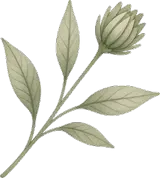
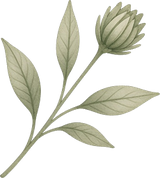
fix(site): defringe botanicals, cream CTAs, card button padding
Punch white mats from garden art PNGs, drop full-bleed frame backdrop,
force cream labels on forest buttons, and pad platform card footers.

diff --git a/apps/parable-bloom-site/app/page.tsx b/apps/parable-bloom-site/app/page.tsx
@@ -85,14 +85,22 @@ export default function HomePage() {
     <div className="flex flex-col gap-16 pb-12 sm:gap-20">
       {/* ── Hero: brand + headline + CTA + dominant product image ── */}
       <section className="relative left-1/2 w-screen max-w-[100vw] -translate-x-1/2 overflow-hidden">
-        <div
+        {/* Soft corner sprigs only — punched PNG alpha, no full-bleed frame matte */}
+        <Image
+          src="/art/leaf_sprig.png"
+          alt=""
+          width={120}
+          height={134}
           aria-hidden="true"
-          className="pointer-events-none absolute inset-0 opacity-[0.55]"
-          style={{
-            backgroundImage: "url('/art/frame_light.webp')",
-            backgroundSize: 'cover',
-            backgroundPosition: 'center',
-          }}
+          className="pointer-events-none absolute top-6 left-2 opacity-80 sm:top-10 sm:left-6"
+        />
+        <Image
+          src="/art/leaf_sprig.png"
+          alt=""
+          width={120}
+          height={134}
+          aria-hidden="true"
+          className="pointer-events-none absolute right-2 bottom-8 scale-x-[-1] opacity-80 sm:right-8 sm:bottom-12"
         />
         <div className="relative mx-auto grid w-full max-w-6xl items-center gap-10 px-4 py-10 sm:px-6 sm:py-14 lg:grid-cols-[minmax(0,1.05fr)_minmax(0,0.95fr)] lg:gap-12 lg:py-16">
           <div className="animate-fade-in-up relative z-10 max-w-xl">
@@ -108,7 +116,7 @@ export default function HomePage() {
                 href="https://parable-bloom.web.app/"
                 target="_blank"
                 rel="noopener noreferrer"
-                className="cta-primary focus-visible:ring-brand/40 focus-visible:ring-2 focus-visible:outline-none"
+                className="cta-primary focus-visible:ring-brand/40 !text-[#fffbf3] hover:!text-[#fffbf3] focus-visible:ring-2 focus-visible:outline-none"
               >
                 Play on Web
               </Link>
@@ -150,7 +158,7 @@ export default function HomePage() {
           </div>
         </div>
         <div className="leaf-divider" aria-hidden="true">
-          <Image src="/art/leaf_pair.webp" alt="" width={72} height={24} className="opacity-80" />
+          <Image src="/art/leaf_pair.png" alt="" width={72} height={24} className="opacity-90" />
         </div>
         <div className="grid grid-cols-2 gap-4 md:grid-cols-4 md:gap-5">
           {gallery.map((shot, i) => (
@@ -218,7 +226,7 @@ export default function HomePage() {
       {/* ── Closing CTA ── */}
       <section className="animate-fade-in-up relative overflow-hidden rounded-[1.5rem] border border-brand/15 bg-surface px-6 py-10 text-center sm:px-10">
         <Image
-          src="/art/leaf_sprig.webp"
+          src="/art/leaf_sprig.png"
           alt=""
           width={80}
           height={48}
@@ -234,7 +242,7 @@ export default function HomePage() {
             href="https://parable-bloom.web.app/"
             target="_blank"
             rel="noopener noreferrer"
-            className="cta-primary"
+            className="cta-primary !text-[#fffbf3] hover:!text-[#fffbf3]"
           >
             Play on Web
           </Link>

diff --git a/apps/parable-bloom-site/components/design-system-card.tsx b/apps/parable-bloom-site/components/design-system-card.tsx
@@ -55,22 +55,29 @@ export default function DesignSystemCard({
         <CardDescription className="text-text-secondary text-sm leading-relaxed">{body}</CardDescription>
       </CardContent>
 
-      <CardFooter className="pt-0">
-        {href ? (
-          <Button
-            asChild
-            className="bg-brand hover:bg-brand/90 w-full rounded-[1.125rem] transition-all duration-300 hover:shadow-md"
-            onClick={() => trackCtaClick(title, 'platform_grid', badge)}
-          >
-            <Link href={href} target="_blank" rel="noopener noreferrer">
+      <CardFooter className="!border-brand/10 mt-auto !gap-0 !border-t !bg-transparent !p-0">
+        <div className="w-full px-6 pt-6 pb-6">
+          {href ? (
+            <Button
+              asChild
+              className="bg-brand hover:bg-brand/90 !text-[#fffbf3] hover:!text-[#fffbf3] h-11 w-full rounded-[1.125rem] transition-all duration-300 hover:shadow-md"
+              onClick={() => trackCtaClick(title, 'platform_grid', badge)}
+            >
+              <Link
+                href={href}
+                target="_blank"
+                rel="noopener noreferrer"
+                className="!text-[#fffbf3] hover:!text-[#fffbf3]"
+              >
+                {ctaLabel}
+              </Link>
+            </Button>
+          ) : (
+            <Button disabled className="bg-brand/35 !text-[#fffbf3] h-11 w-full rounded-[1.125rem] opacity-70">
               {ctaLabel}
-            </Link>
-          </Button>
-        ) : (
-          <Button disabled className="w-full rounded-[1.125rem] opacity-60">
-            {ctaLabel}
-          </Button>
-        )}
+            </Button>
+          )}
+        </div>
       </CardFooter>
     </Card>
   );

diff --git a/apps/parable-bloom-site/app/globals.css b/apps/parable-bloom-site/app/globals.css
@@ -274,7 +274,7 @@ a {
   gap: 0.5rem;
   border-radius: 1.125rem;
   background: var(--color-brand);
-  color: #fffbf3;
+  color: #fffbf3 !important;
   padding: 0.8rem 1.4rem;
   font-size: 0.95rem;
   font-weight: 600;
@@ -283,8 +283,22 @@ a {
 
 .cta-primary:hover {
   background: rgb(42 62 38);
+  color: #fffbf3 !important;
   transform: translateY(-2px);
   box-shadow: var(--shadow-grace-hover);
+}
+
+/* Forest primary buttons from the design system must keep cream label text */
+button.bg-brand,
+a.bg-brand,
+.bg-brand[data-slot='button'] {
+  color: #fffbf3;
+}
+
+button.bg-brand:hover,
+a.bg-brand:hover,
+.bg-brand[data-slot='button']:hover {
+  color: #fffbf3;
 }
 
 .cta-secondary {

diff --git a/apps/parable-bloom-site/components/site-shell.tsx b/apps/parable-bloom-site/components/site-shell.tsx
@@ -58,7 +58,7 @@ export default function SiteShell({ children }: SiteShellProps) {
             onClick={() => trackNavigationClick('/', 'header', 'Logo')}
             className="flex shrink-0 items-center gap-2.5 transition-opacity duration-300 hover:opacity-80"
           >
-            <Image src="/art/leaf_sprig.webp" alt="" width={28} height={18} className="opacity-90" aria-hidden="true" />
+            <Image src="/art/leaf_sprig.png" alt="" width={28} height={18} className="opacity-90" aria-hidden="true" />
             <Text variant="h3" as="strong" className="font-display text-brand whitespace-nowrap text-lg sm:text-xl">
               Parable Bloom
             </Text>

diff --git a/apps/parable-bloom-site/app/not-found.tsx b/apps/parable-bloom-site/app/not-found.tsx
@@ -4,7 +4,7 @@ import Link from 'next/link';
 export default function NotFound() {
   return (
     <div className="flex flex-col items-center gap-4 py-16 text-center">
-      <Image src="/art/leaf_sprig.webp" alt="" width={72} height={44} className="opacity-90" aria-hidden="true" />
+      <Image src="/art/leaf_sprig.png" alt="" width={72} height={44} className="opacity-90" aria-hidden="true" />
       <h2 className="font-display text-brand text-2xl font-semibold">Path not found</h2>
       <p className="text-text-secondary max-w-md text-sm">
         This garden path doesn&apos;t exist. Let&apos;s guide you back.

diff --git a/apps/parable-bloom-site/CHANGELOG.md b/apps/parable-bloom-site/CHANGELOG.md
@@ -4,6 +4,10 @@
 
 - **site:** garden visual refresh — parchment palette, product screenshots, updated level messaging
 
+### 🩹 Fixes
+
+- **site:** defringe botanical art + cream CTA text + platform-card button padding
+
 ## 0.5.21 (2026-11-01)
 
 ### 🚀 Features
